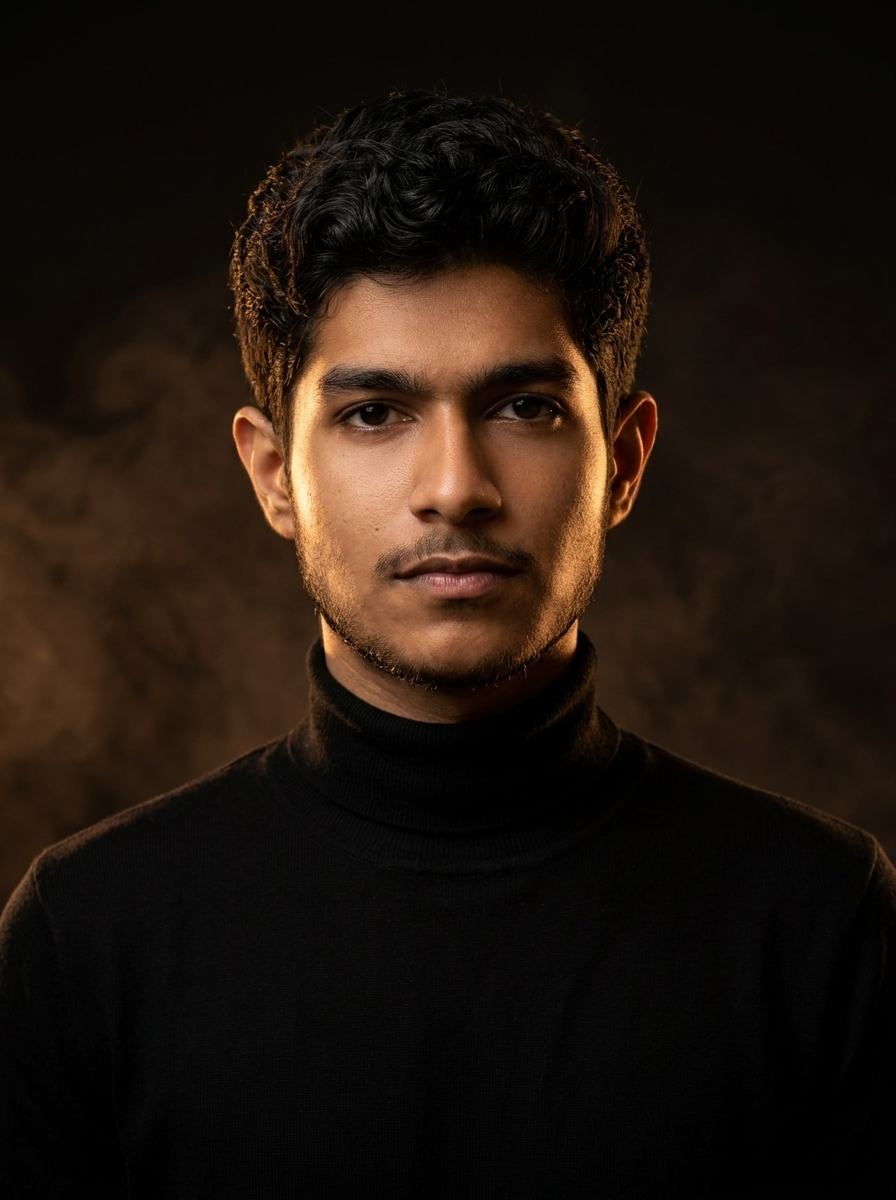
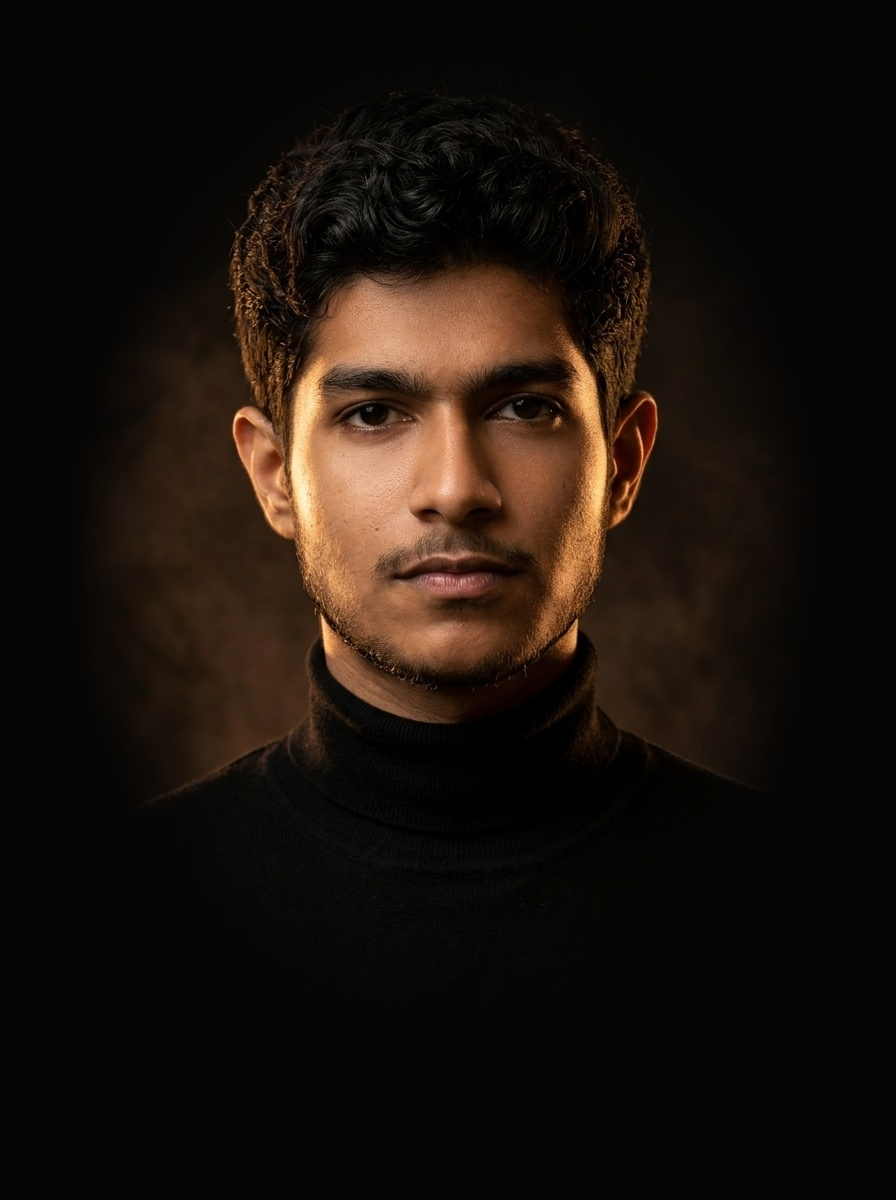
fix: resolve font blurriness with subpixel antialiasing and contrast, and blend portrait seamlessly into page background

diff --git a/src/components/HeroTerminal.css b/src/components/HeroTerminal.css
@@ -38,46 +38,49 @@
 
 .massive-headline {
   font-family: var(--font-display);
-  font-size: clamp(4rem, 11vw, 10.5rem);
-  color: var(--concrete-white);
+  font-size: clamp(4.2rem, 11.5vw, 11rem);
+  color: #ffffff;
   margin: 0;
-  letter-spacing: -2px;
-  line-height: 0.92;
-  text-shadow: 4px 4px 0px rgba(0, 0, 0, 0.85);
+  letter-spacing: 0.02em;
+  line-height: 0.95;
+  text-shadow: none;
+  -webkit-font-smoothing: subpixel-antialiased;
 }
 
 .sub-headline {
   font-family: var(--font-mono);
-  font-size: clamp(1.1rem, 2.4vw, 2.1rem);
-  font-weight: 600;
-  color: var(--industrial-cream);
+  font-size: clamp(1.15rem, 2.3vw, 2.1rem);
+  font-weight: 700;
+  color: var(--accent-coffee-light);
   margin-top: 1.5rem;
   margin-bottom: 3.5rem;
   text-transform: uppercase;
   letter-spacing: 2px;
+  -webkit-font-smoothing: subpixel-antialiased;
 }
 
 .initialize-btn {
   font-family: var(--font-display);
-  font-size: 1.4rem;
+  font-size: 1.5rem;
   font-weight: 700;
   padding: 1.3rem 2.8rem;
-  border: 3px solid var(--concrete-white);
+  border: 4px solid #ffffff;
   background-color: var(--industrial-cream);
   color: var(--asphalt-black);
-  letter-spacing: 0.02em;
+  letter-spacing: 0.04em;
   cursor: pointer;
   transition: all 0.2s cubic-bezier(0.16, 1, 0.3, 1);
+  -webkit-font-smoothing: subpixel-antialiased;
 }
 
 .initialize-btn:hover {
-  background-color: var(--concrete-white);
+  background-color: #ffffff;
   transform: translate(-4px, -4px);
   box-shadow: 8px 8px 0px var(--accent-coffee);
 }
 
 .hero-portrait-container {
-  flex: 0.95;
+  flex: 1;
   display: flex;
   justify-content: center;
   align-items: center;
@@ -98,12 +101,9 @@
   box-shadow: none !important;
   border-radius: 0 !important;
   background: transparent !important;
-  /* Seamless blending: radial falloff on all sides and smooth fade at the bottom into asphalt black */
-  -webkit-mask-image: radial-gradient(ellipse 75% 80% at 50% 45%, black 45%, transparent 80%),
-                      linear-gradient(to bottom, black 65%, transparent 95%);
-  mask-image: radial-gradient(ellipse 75% 80% at 50% 45%, black 45%, transparent 80%),
-              linear-gradient(to bottom, black 65%, transparent 95%);
-  filter: contrast(1.05) brightness(1.02);
+  /* 100% seamless feathering into asphalt-black background */
+  -webkit-mask-image: radial-gradient(ellipse 85% 85% at 50% 48%, black 50%, transparent 95%);
+  mask-image: radial-gradient(ellipse 85% 85% at 50% 48%, black 50%, transparent 95%);
 }
 
 @media (max-width: 1024px) {

diff --git a/src/index.css b/src/index.css
@@ -1,9 +1,9 @@
-@import url('https://fonts.googleapis.com/css2?family=Anton&family=Inter:wght@400;600;800&display=swap');
+@import url('https://fonts.googleapis.com/css2?family=Anton&family=Inter:wght@400;500;600;700;800;900&display=swap');
 
 :root {
   --asphalt-black: #050505;
-  --concrete-white: #e4e4e4;
-  --industrial-cream: #d9d5c3;
+  --concrete-white: #ffffff;
+  --industrial-cream: #f6eedb;
   --accent-coffee: #8b5a2b; /* Rich coffee brown */
   --accent-coffee-light: #c49a6c; /* Warm coffee / crema */
   --accent-coffee-dark: #6f4e37; /* Roasted espresso */
@@ -12,7 +12,7 @@
   --accent-dark-green: var(--accent-coffee);
   
   --font-display: 'Anton', sans-serif;
-  --font-body: 'Inter', sans-serif;
+  --font-body: 'Inter', -apple-system, BlinkMacSystemFont, 'Segoe UI', Roboto, sans-serif;
   --font-mono: 'Courier New', Courier, monospace;
 }
 
@@ -27,7 +27,9 @@ body {
   color: var(--concrete-white);
   font-family: var(--font-body);
   overflow-x: hidden;
-  -webkit-font-smoothing: antialiased;
+  -webkit-font-smoothing: subpixel-antialiased;
+  -moz-osx-font-smoothing: auto;
+  text-rendering: optimizeLegibility;
   -ms-overflow-style: none;  /* IE and Edge */
   scrollbar-width: none;  /* Firefox */
 }
@@ -40,7 +42,9 @@ body {
 h1, h2, h3, h4, h5, h6 {
   font-family: var(--font-display);
   text-transform: uppercase;
-  line-height: 1;
+  line-height: 1.05;
+  letter-spacing: 0.02em;
+  -webkit-font-smoothing: subpixel-antialiased;
 }
 
 /* Brutalist Utility Classes */

diff --git a/index.html b/index.html
@@ -7,7 +7,7 @@
     <!-- Google Fonts: Anton & Inter -->
     <link rel="preconnect" href="https://fonts.googleapis.com">
     <link rel="preconnect" href="https://fonts.gstatic.com" crossorigin>
-    <link href="https://fonts.googleapis.com/css2?family=Anton&family=Inter:wght@400;600;800&display=swap" rel="stylesheet">
+    <link href="https://fonts.googleapis.com/css2?family=Anton&family=Inter:wght@400;500;600;700;800;900&display=swap" rel="stylesheet">
     
     <!-- Primary Meta Tags -->
     <title>Sayandh Raj | Elite AI/ML Engineer & Data Architect</title>
